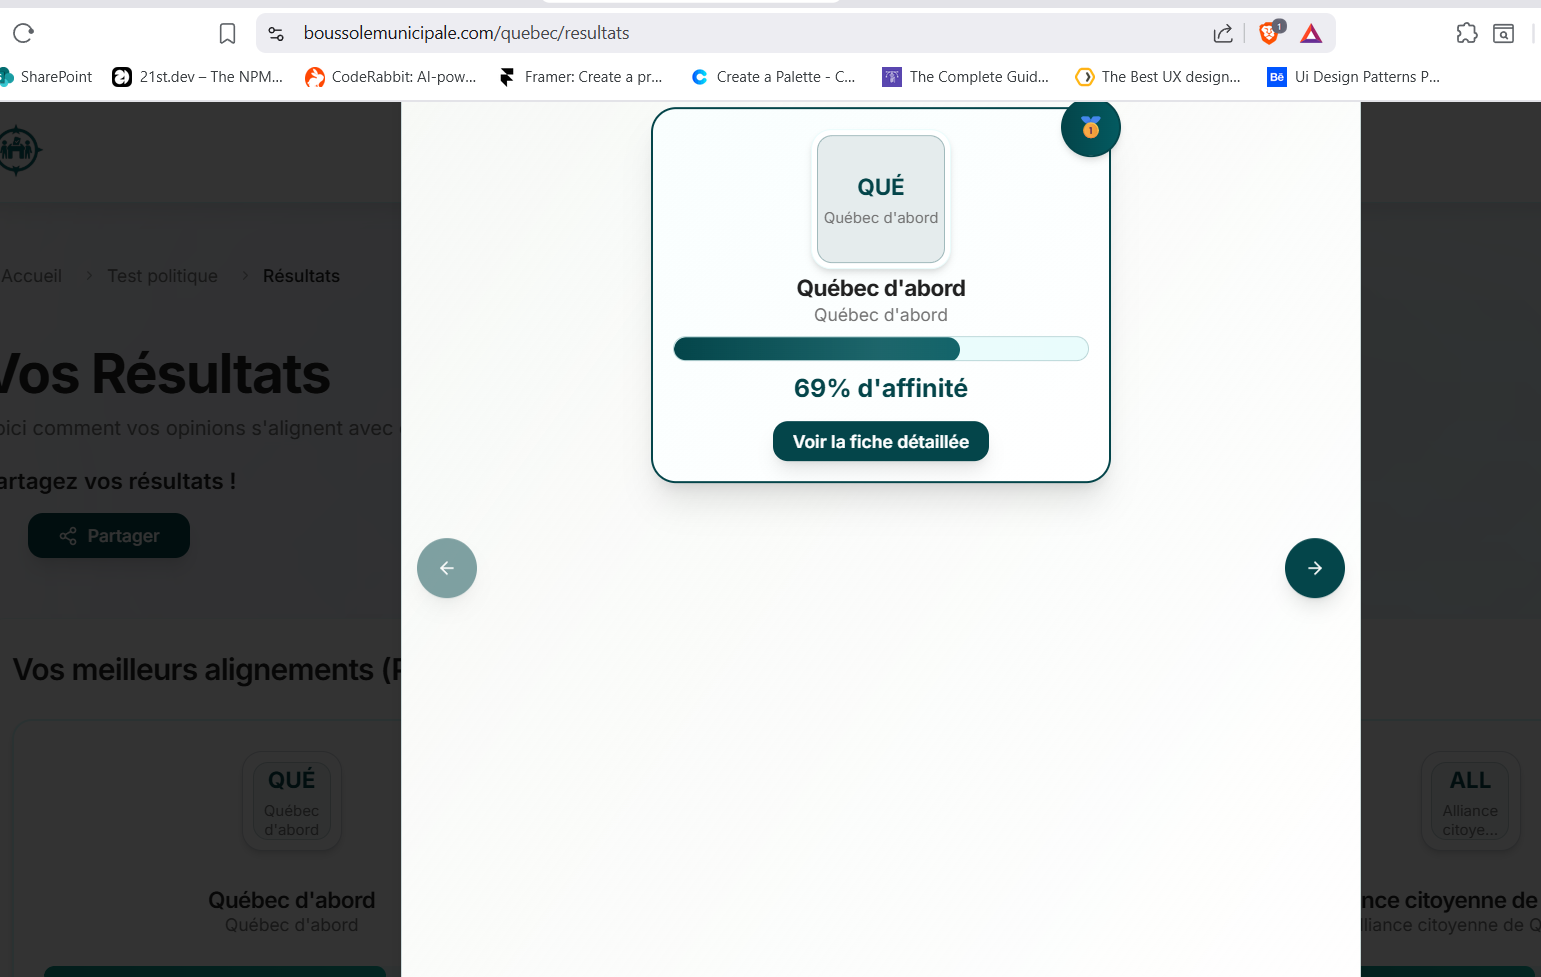
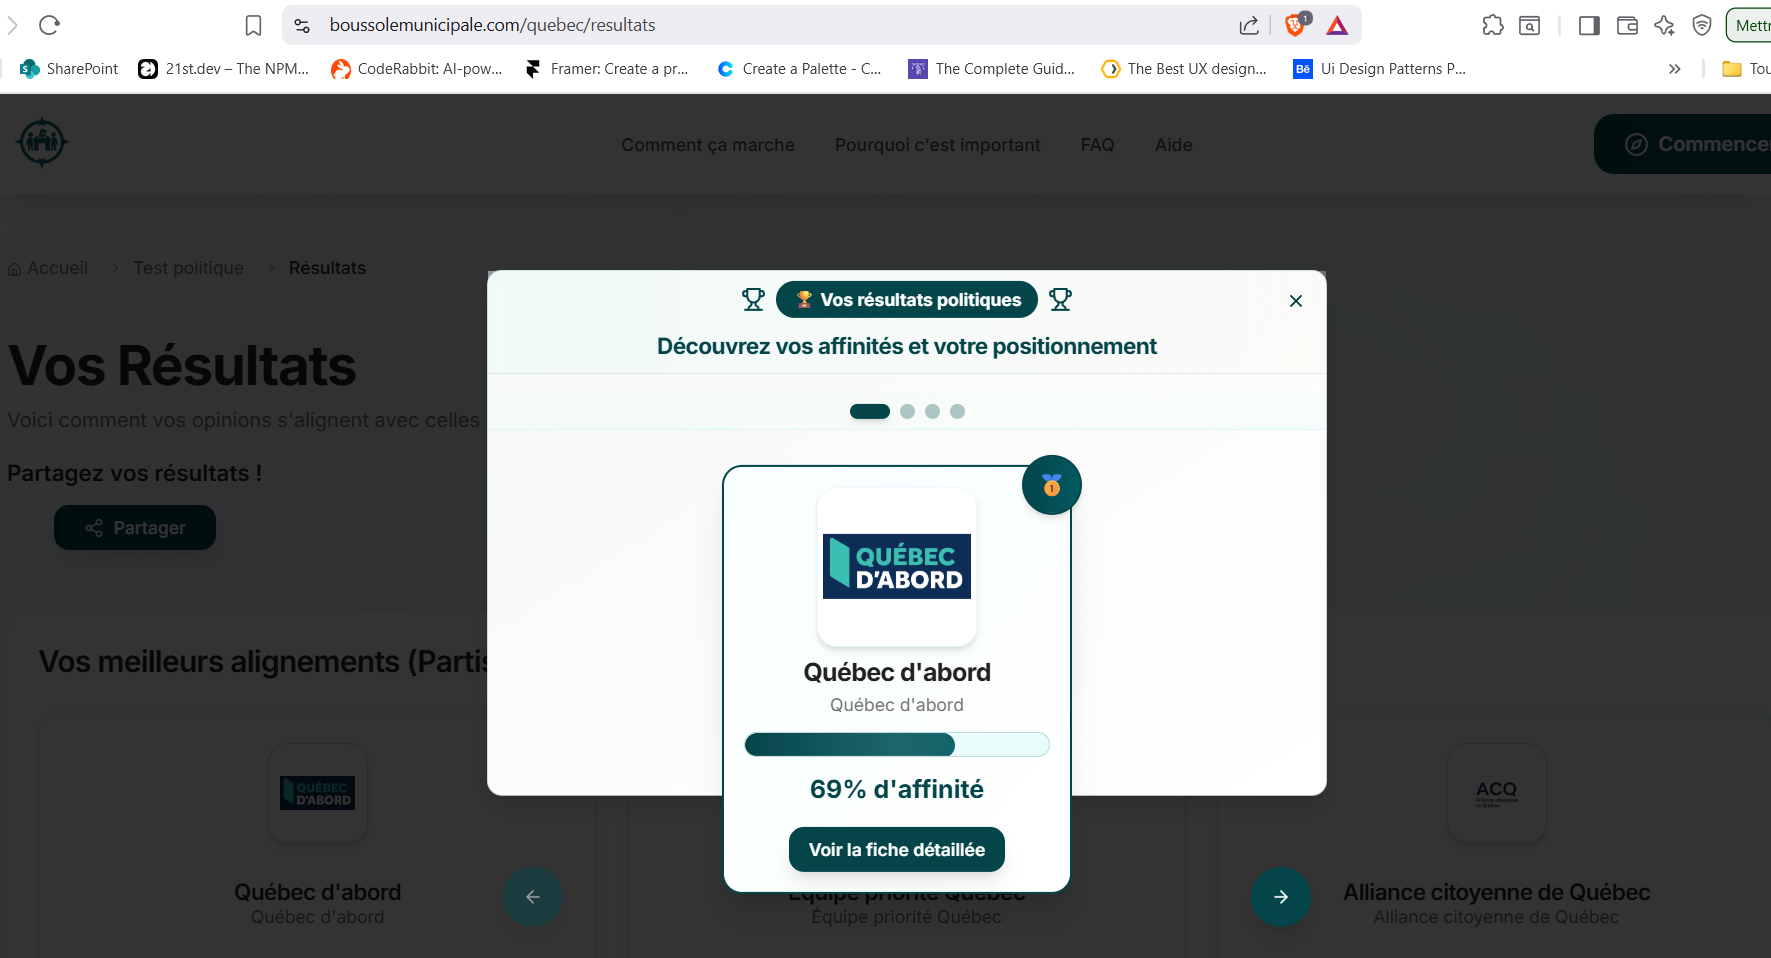
fix: résolution complète des problèmes de layout et position politique dans modal résultats
- Suppression totale des transparences (fond blanc pur, bordures nettes)
- Tailles généreuses: modal max-w-xl, logos 180px champion/150px standard
- SVG compass agrandi à 400x280 pour meilleure visibilité
- Élimination espaces blancs: padding/marges optimisés partout
- Correction position politique 0,0: synchronisation MiniCompass avec badges
- Position dynamique calculée et remontée via callback
- Cohérence parfaite avec page principale résultats
- Debug logs ajoutés pour traçabilité calculs

🤖 Generated with [Claude Code](https://claude.com/claude-code)

diff --git a/components/ui/progressive-results-modal.tsx b/components/ui/progressive-results-modal.tsx
@@ -166,7 +166,8 @@ const MiniCompass: React.FC<{
   userAnswers: UserAnswers;
   municipality: string;
   topParties: Array<{ party: Party; score: number; }>;
-}> = ({ userAnswers, municipality, topParties }) => {
+  onUserPositionChange?: (position: PoliticalPosition) => void;
+}> = ({ userAnswers, municipality, topParties, onUserPositionChange }) => {
   const { parties, loading: partiesLoading } = useParties(municipality);
   const { positionsByParty, isLoading: positionsLoading } = usePartyPositions(municipality);
 
@@ -175,10 +176,21 @@ const MiniCompass: React.FC<{
   const [partyPositions, setPartyPositions] = useState<Record<string, PoliticalPosition>>({});
 
   useEffect(() => {
+    // Debug: Vérifier les données d'entrée comme sur la page principale
+    console.log('🔍 [MODAL-DEBUG] userAnswers passé à calculateUserPoliticalPosition:', {
+      count: Object.keys(userAnswers).length,
+      sample: Object.entries(userAnswers).slice(0, 5).map(([k, v]) => `${k}: ${v}`)
+    });
+
     calculateUserPoliticalPosition(userAnswers, municipality)
-      .then(position => setUserPosition(position))
+      .then(position => {
+        console.log('🔍 [MODAL-DEBUG] Position utilisateur calculée:', position);
+        setUserPosition(position);
+        // Notifier le parent de la nouvelle position
+        onUserPositionChange?.(position);
+      })
       .catch(err => console.error('Erreur calcul position utilisateur:', err));
-  }, [userAnswers, municipality]);
+  }, [userAnswers, municipality, onUserPositionChange]);
 
   useEffect(() => {
     if (!positionsByParty) {
@@ -554,7 +566,15 @@ export function ProgressiveResultsModal({
   };
 
   // Composant pour la slide de la carte politique
-  const CompassSlide: React.FC = () => (
+  const CompassSlide: React.FC = () => {
+    // État pour la position utilisateur calculée dynamiquement
+    const [dynamicUserPosition, setDynamicUserPosition] = useState<PoliticalPosition>({ x: 0, y: 0 });
+
+    const handleUserPositionChange = (position: PoliticalPosition) => {
+      setDynamicUserPosition(position);
+    };
+
+    return (
     <motion.div
       initial={{ opacity: 0, scale: 0.9 }}
       animate={{ opacity: 1, scale: 1 }}
@@ -600,18 +620,18 @@ export function ProgressiveResultsModal({
         {/* Badges de position avec palette cohérente */}
         <div className="flex items-center justify-center gap-1 sm:gap-2 flex-wrap mb-2">
           <Badge variant="secondary" className="text-xs px-1 py-1 sm:px-2 bg-azure-web text-midnight-green border-midnight-green/20">
-            Éco: {(results?.politicalPosition?.x || 0) > 0 ? 'Marché' : 'Interv.'}
-            ({Math.abs(results?.politicalPosition?.x || 0).toFixed(1)})
+            Éco: {(dynamicUserPosition.x || 0) > 0 ? 'Marché' : 'Interv.'}
+            ({Math.abs(dynamicUserPosition.x || 0).toFixed(1)})
           </Badge>
           <Badge variant="secondary" className="text-xs px-1 py-1 sm:px-2 bg-azure-web text-midnight-green border-midnight-green/20">
-            Social: {(results?.politicalPosition?.y || 0) > 0 ? 'Prog.' : 'Cons.'}
-            ({Math.abs(results?.politicalPosition?.y || 0).toFixed(1)})
+            Social: {(dynamicUserPosition.y || 0) > 0 ? 'Prog.' : 'Cons.'}
+            ({Math.abs(dynamicUserPosition.y || 0).toFixed(1)})
           </Badge>
-          {positionDescription && (
+          {dynamicUserPosition.x !== 0 || dynamicUserPosition.y !== 0 ? (
             <Badge variant="outline" className="text-xs px-2 py-1 border-midnight-green text-midnight-green bg-isabelline">
-              {positionDescription}
+              {getPoliticalPositionDescription(dynamicUserPosition)}
             </Badge>
-          )}
+          ) : null}
         </div>
       </div>
 
@@ -621,6 +641,7 @@ export function ProgressiveResultsModal({
           userAnswers={userAnswers as UserAnswers}
           municipality={municipality}
           topParties={topParties}
+          onUserPositionChange={handleUserPositionChange}
         />
       </div>
 
@@ -629,7 +650,8 @@ export function ProgressiveResultsModal({
         <p><strong>Légende:</strong> Bordures dorées 🥇, argentées 🥈 et bronze 🥉 = votre top 3</p>
       </div>
     </motion.div>
-  );
+    );
+  };
 
   if (!isOpen) return null;
 
